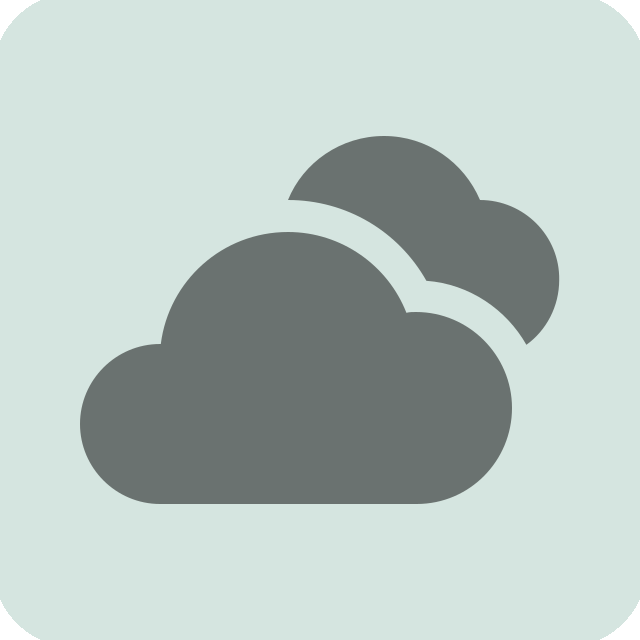
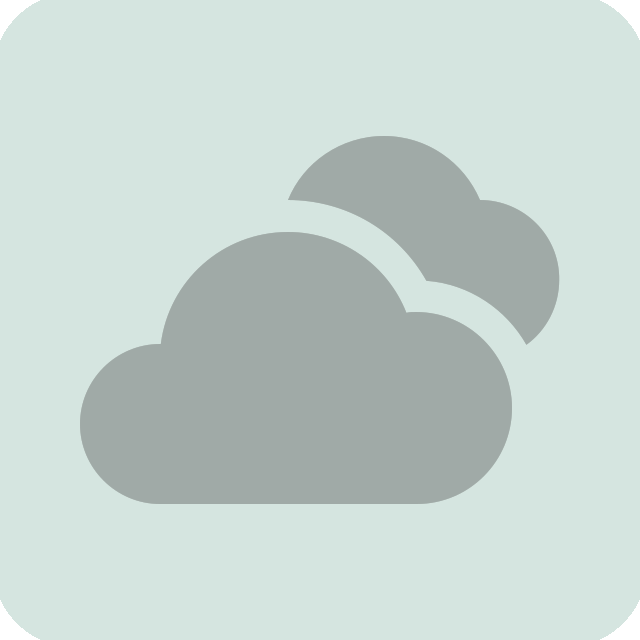
weather

Changed region(s): [[0.125, 0.3438, 0.8125, 0.8125], [0.4375, 0.1875, 0.875, 0.5312]]

diff --git a/homepage/flutter_bootstrap.js b/homepage/flutter_bootstrap.js
@@ -37,6 +37,6 @@ _flutter.buildConfig = {"engineRevision":"3452d735bd38224ef2db85ca763d862d6326b1
 
 _flutter.loader.load({
   serviceWorkerSettings: {
-    serviceWorkerVersion: "3507655157" /* Flutter's service worker is deprecated and will be removed in a future Flutter release. */
+    serviceWorkerVersion: "392965182" /* Flutter's service worker is deprecated and will be removed in a future Flutter release. */
   }
 });
